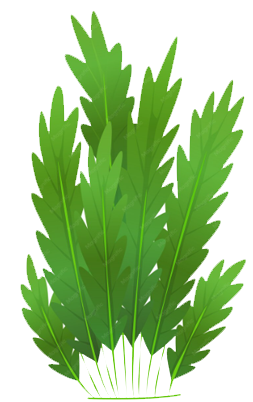
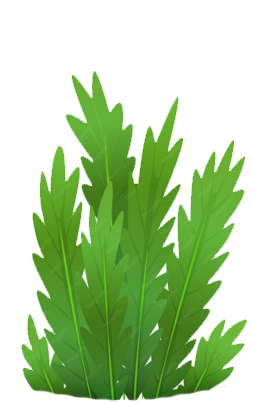
fix prop sizing

diff --git a/src/game/world/interactablePropConfig.js b/src/game/world/interactablePropConfig.js
@@ -98,13 +98,13 @@ export const INTERACTABLE_PROP_TYPES = {
         id: 'dead_tree',
         label: 'Dead Tree',
         category: 'wood',
-        radius: 22,
+        radius: 55,
         interactRange: 70,
         respawnTime: 600_000,
         lootTable: 'wood_branch',
         texture: 'dead_tree',
         fallbackColor: 0x5c4033,
-        scaleRange: { min: 0.4, max: 1.4 },
+        scaleRange: { min: 1, max: 1.4 },
         //glowColor: 0xbb7722,
         harvestTime: 0.8,          // seconds
         harvestYield: { min: 1, max: 3 },
@@ -115,14 +115,15 @@ export const INTERACTABLE_PROP_TYPES = {
         id: 'ore_iron',
         label: 'Iron Ore',
         category: 'metal',
-        radius: 40,
+        radius: 30,
         interactRange: 100,
         respawnTime: 180_000,
         lootTable: 'ore_iron',
         texture: 'ore_iron',
         fallbackColor: 0x8fa0b0,
-        scaleRange: { min: 1, max: 2.5 },
+        scaleRange: { min: 1, max: 2},
         glowColor: 'orange',
+        vfxGlowAlpha: 0.1,
         harvestTime: 2.0,          // seconds
         harvestYield: { min: 1, max: 3 },
     },
@@ -153,7 +154,7 @@ export const INTERACTABLE_PROP_TYPES = {
         lootTable: 'ore_crystal',
         texture: 'ore_crystal',
         fallbackColor: 0x44eecc,
-        scaleRange: { min: 1.5, max: 3 },
+        scaleRange: { min: 1, max: 2 },
         glowColor: 0x66ffee,
         vfxGlowAlpha: 0.1,
         harvestTime: 3.0,          // seconds
